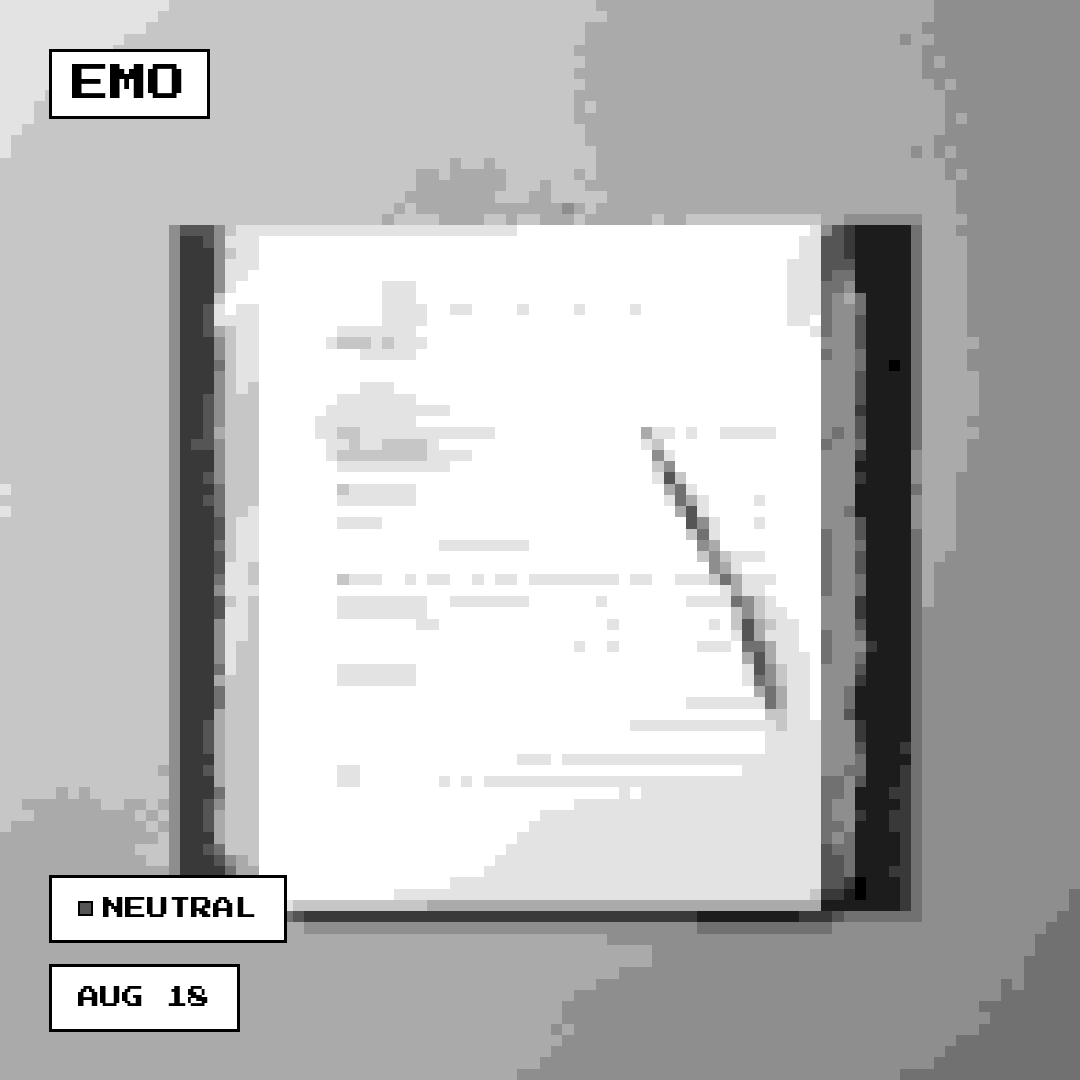
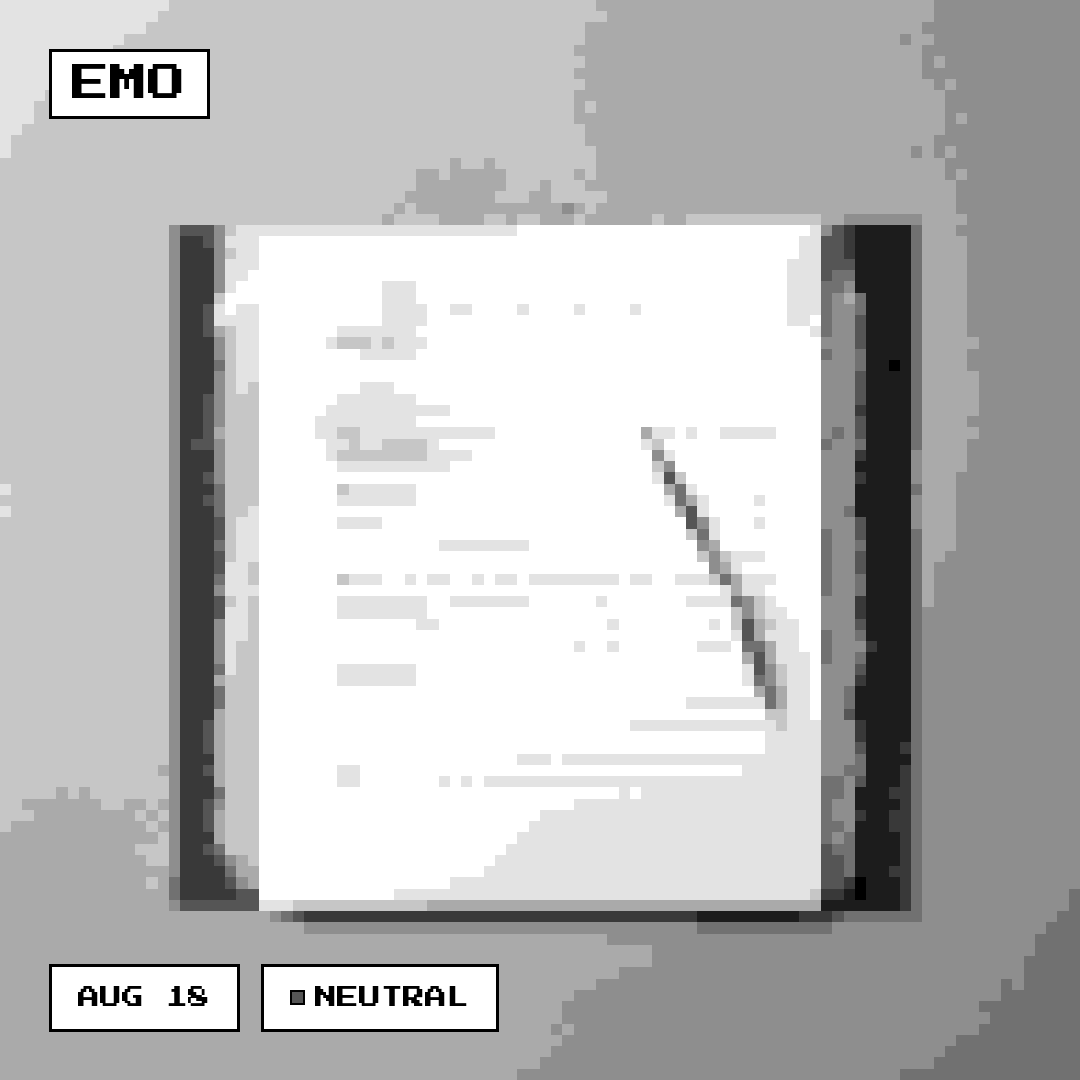
Place the emotion badge beside the date badge, not stacked above it
Feedback from the localhost preview: the two bottom-left badges read
better side by side than stacked. _draw_pixel_badge now returns
(width, height) instead of just height so the emotion badge can be
positioned to the right of the date badge at the same bottom_y.
Regenerated the three backfilled share_card.png files to match.

Changed region(s): [[0.0306, 0.7944, 0.4889, 0.9778]]

diff --git a/pipeline/share_card.py b/pipeline/share_card.py
@@ -55,8 +55,8 @@ def _draw_pixel_badge(
     .pixel-btn), optionally preceded by a solid color swatch (mirrors
     .emotion-swatch). `xy` is the box's top-left corner if anchor is
     "top-left", or the (x, bottom-y) point it hangs from if anchor is
-    "bottom-left". Returns the badge's rendered height, so callers can
-    stack badges above one another.
+    "bottom-left". Returns the badge's rendered (width, height), so
+    callers can place further badges beside or above this one.
     """
     bbox = draw.textbbox((0, 0), text, font=font)
     text_w = bbox[2] - bbox[0]
@@ -87,7 +87,7 @@ def _draw_pixel_badge(
 
     draw.text((inner_x, inner_y), text, font=font, fill=BLACK)
 
-    return box_h
+    return box_w, box_h
 
 
 def render_share_card(
@@ -136,7 +136,7 @@ def render_share_card(
     emotion_label = emotion.upper()
 
     bottom_y = size - margin
-    date_h = _draw_pixel_badge(
+    date_w, _ = _draw_pixel_badge(
         draw,
         (margin, bottom_y),
         date_label,
@@ -148,7 +148,7 @@ def render_share_card(
     )
     _draw_pixel_badge(
         draw,
-        (margin, bottom_y - date_h - badge_gap),
+        (margin + date_w + badge_gap, bottom_y),
         emotion_label,
         badge_font,
         border_width=border_width,
